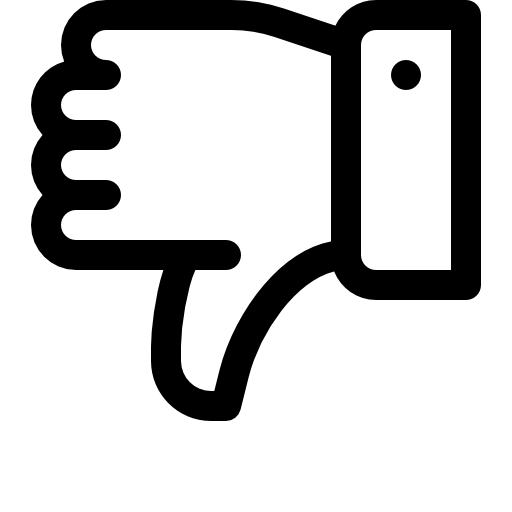
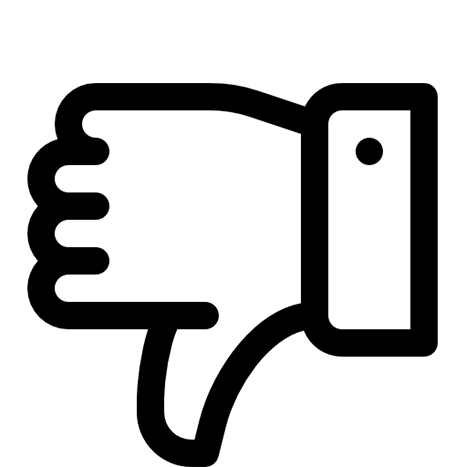
update upvotes and downvotes

diff --git a/style.css b/style.css
@@ -1,18 +1,18 @@
 @import url('https://fonts.googleapis.com/css?family=Quicksand|Shadows+Into+Light+Two');
 
 html {
-  font-family: 'Quicksand', sans-serif;
-  background-color: #F0F0F0;
-  width: 100%; 
+    font-family: 'Quicksand', sans-serif;
+    background-color: #F0F0F0;
+    width: 100%; 
 }	
 
 #logo-bar {
-  position:fixed;
-  top:0;
-  left:0;
-  right:0;
-  height:65px;
-  background-color: #E63449;
+    position:fixed;
+    top: 0;
+    left: 0;
+    right: 0;
+    height: 65px;
+    background-color: #E63449;
 }
 
 #logo-text {
@@ -21,58 +21,75 @@ html {
   font-size: 20px;
 }
 
+#img-section {
+    display: block;
+    text-align: center;
+    padding: 30px;
+}
+
+#img-section img {
+    margin: auto;
+    max-width: 500px;
+    max-height: 500px;
+}
+
+#vote-otter img {
+    max-width: 100px;
+    padding: 30px;    
+}
+
 h1 {
-  padding-top: 75px;
-  font-size: 30px;
-  text-align: center;
+    padding-top: 75px;
+    font-size: 30px;
+    text-align: center;
 }
 
 h2 {
-  text-align: center;
-  font-size: 20px;
+    text-align: center;
+    font-size: 20px;
 }
 
 .text {
-  font-size: 20px;
-  padding-left: 7%;
-  padding-right: 7%;
-  text-align: center;
+    font-size: 20px;
+    padding-left: 7%;
+    padding-right: 7%;
+    text-align: center;
 }
 
 i {
-  font-family: 'Shadows Into Light Two', cursive;
-  color: #E63449;
+    font-family: 'Shadows Into Light Two', cursive;
+    color: #E63449;
 }
 
 nav {
-  text-align: left;
-  padding-right: 20px;
-  font-size: 20px;
+    text-align: left;
+    padding-right: 20px;
+    font-size: 20px;
 }
 
 ul {
-  list-style-type: none;
-  padding-right: 70px;
-  transform: rotate(180deg);
-  padding-top: 10px;
+    list-style-type: none;
+    padding-right: 70px;
+    transform: rotate(180deg);
+    padding-top: 10px;
 }
 
 li {
-  float: left;
-  transform: rotate(-180deg);
+    float: left;
+    transform: rotate(-180deg);
 }
 
 li a {
-  display: block;
-  color: #ffffff;
-  text-align: center;
-  padding-top: 14px; 
-  padding-bottom: 20px;
-  padding-left: 14px;
-  padding-right: 14px;
-  text-decoration: none;
+    display: block;
+    color: #ffffff;
+    text-align: center;
+    padding-top: 14px; 
+    padding-bottom: 20px;
+    padding-left: 14px;
+    padding-right: 14px;
+    text-decoration: none;
 }
 
 li a:hover:not(.active) {
-  background-color: #C72C3F;
+    background-color: #C72C3F;
 }

diff --git a/index.html b/index.html
@@ -2,28 +2,36 @@
 <html>
 
 <head>
-  <meta charset="UTF-8">
-  <title>Find your next other mate</title>
-  <link rel="stylesheet" href="style.css">
-  <link rel="shortcut icon" type="image/x-icon" href="img/favicon.ico">
+    <meta charset="UTF-8">
+    <title>Find your next other mate</title>
+    <link rel="stylesheet" href="style.css">
+    <link rel="shortcut icon" type="image/x-icon" href="img/favicon.ico">
 </head>
 
 <body>
-  <div id="logo-bar">
-    <p id="logo-text">Significant-Otter</p>
-    <nav>
-      <ul>
-        <li><a href="about.html">About</a></li>
-        <li><a href="index.html">Home</a></li>
-      </ul>
-    </nav>
-  </div>
-  <h1>💖 Find your significant otter today! 💖</h1>
-  <h2>Have you ever wanted to find your <i>true</i> significant-<i>otter</i>? Look no futher to find your true love
-    today.</h2>
-  <img id="otter_img" src="" />
-  <script src="https://code.jquery.com/jquery-3.3.1.slim.min.js"></script>
-  <script src="/js/script.js" alt="otter.jpg"></script>
+    <div id="logo-bar">
+        <p id="logo-text">Significant-Otter</p>
+        <nav>
+            <ul>
+                <li><a href="about.html">About</a></li>
+                <li><a href="index.html">Home</a></li>
+            </ul>
+        </nav>
+    </div>
+    <h1>💖 Find your significant otter today! 💖</h1>
+    <h2>Have you ever wanted to find your <i>true</i> significant-<i>otter</i>? Look no further to find your true love
+        today.</h2>
+    <div id="img-section">
+        <img id="otter_img" src="" />
+        <div id="vote-otter">
+            <a href="index.html"><img id="upvote" src="img/like.png"></a>
+            <a href="index.html"><img id="downvote" src="img/dislike.png"></a>
+        </div>
+    </div>
+
+    <script src="https://code.jquery.com/jquery-3.3.1.slim.min.js"></script>
+    <script src="/js/script.js" alt="otter.jpg"></script>
+
 </body>
 
 </html>
